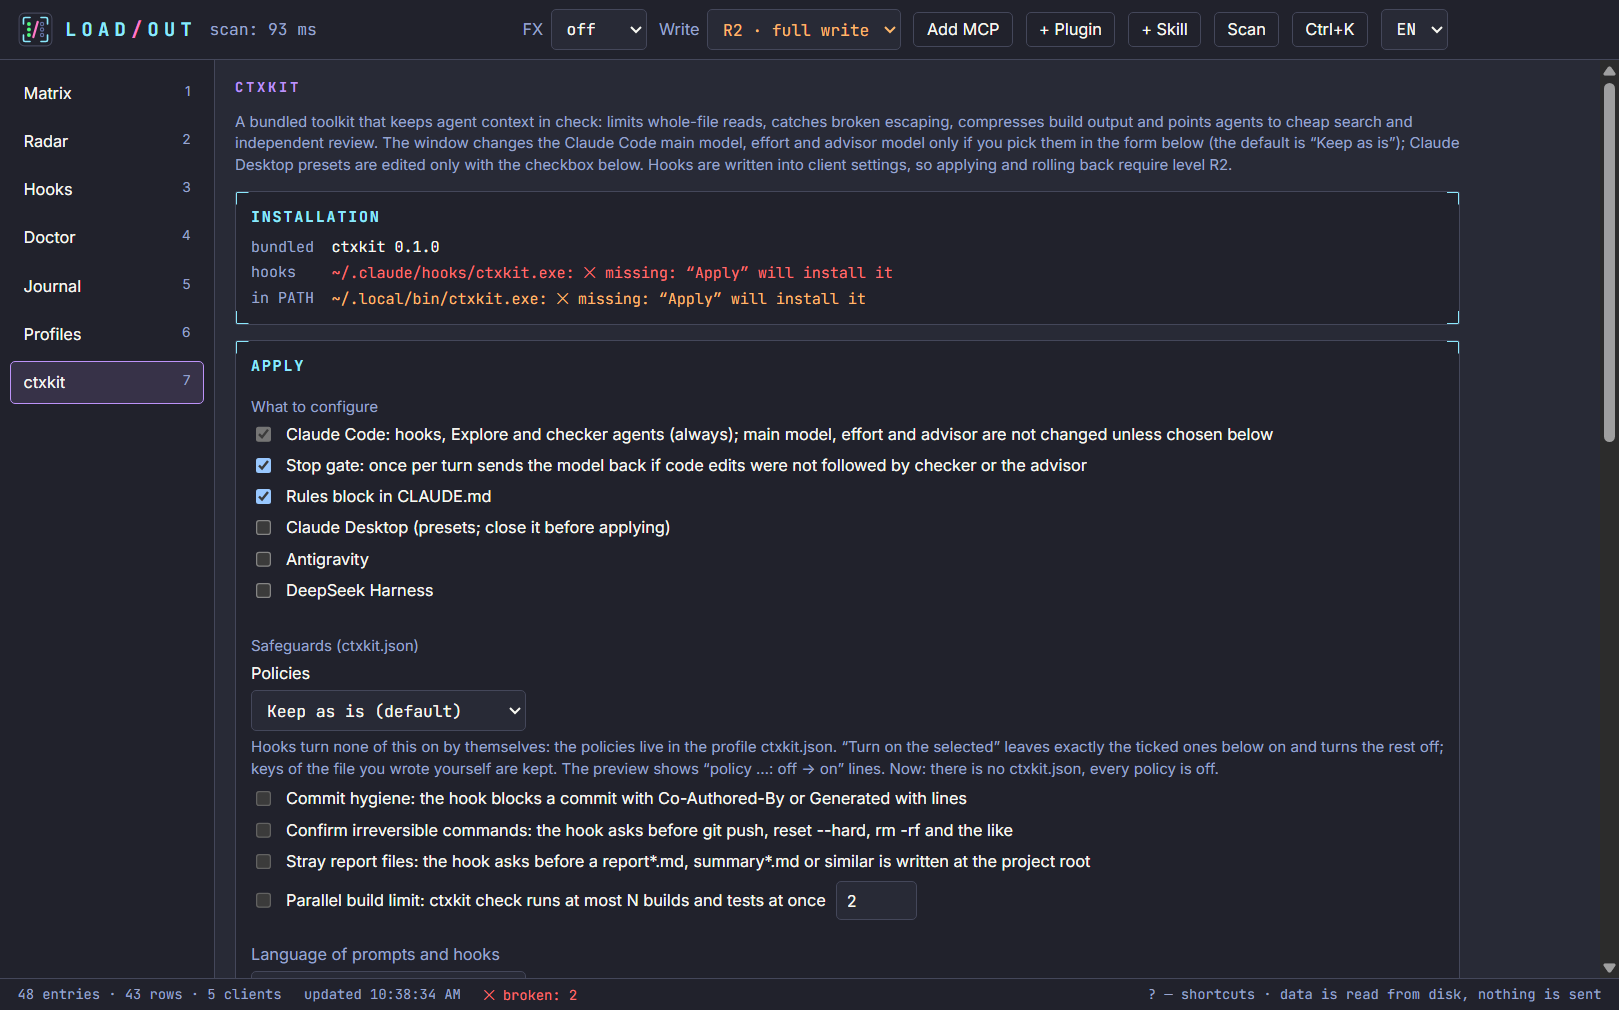
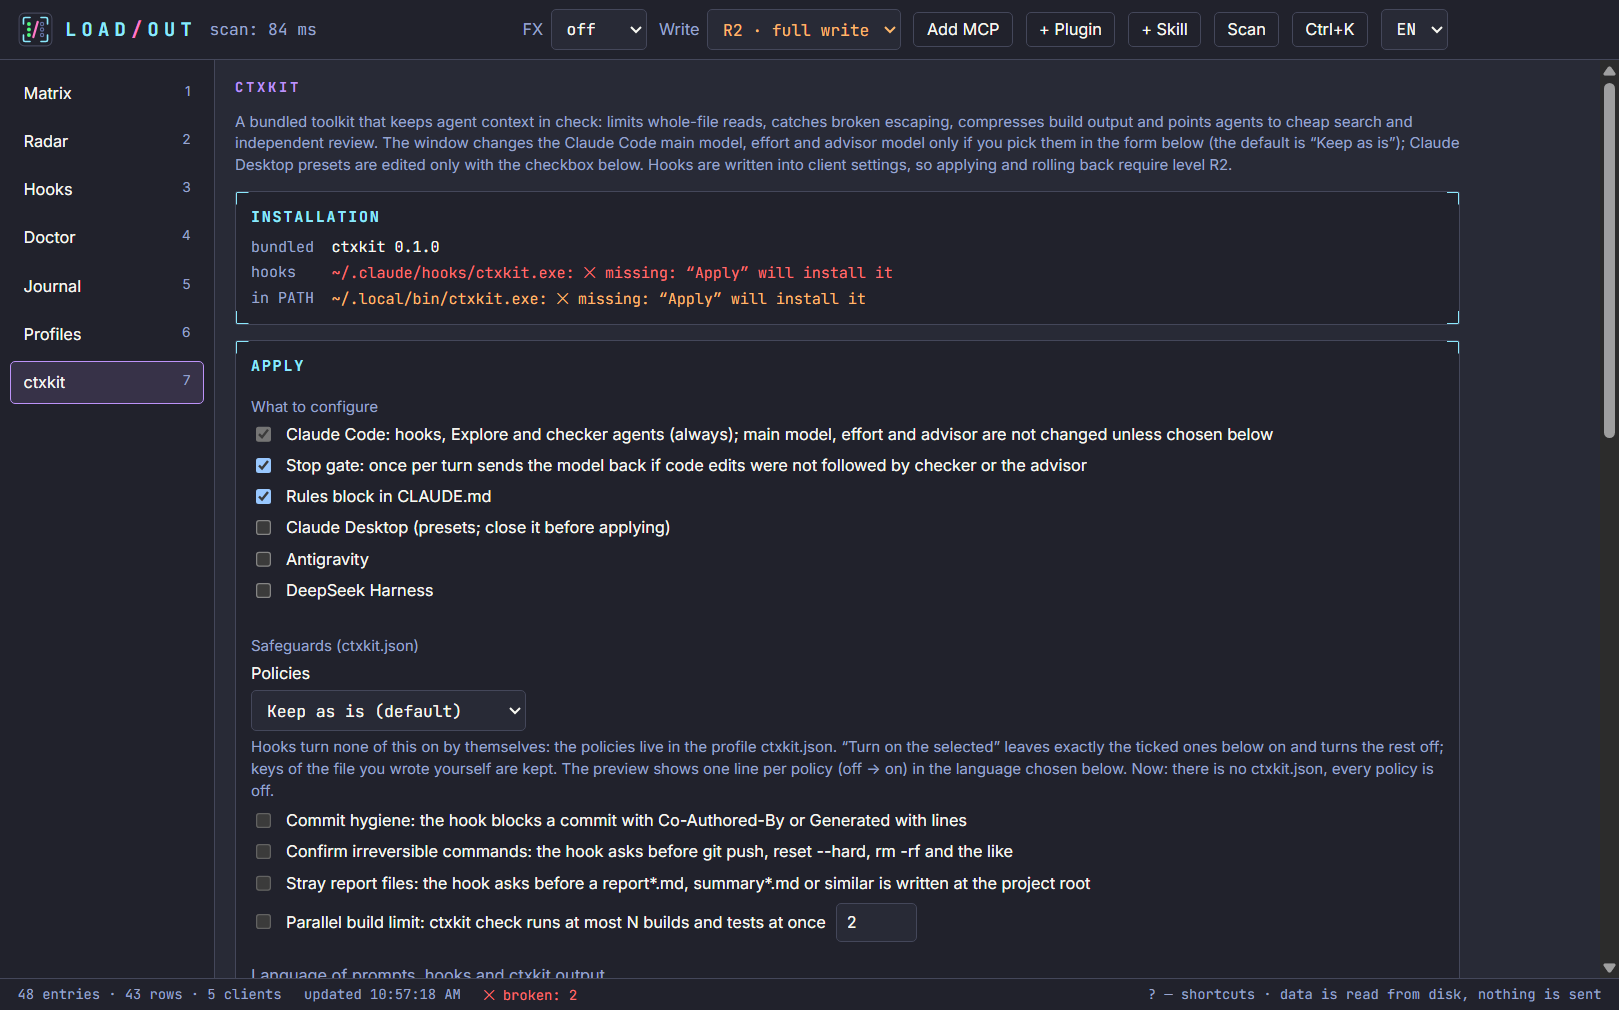
ctxkit/window: review fixes: the form caption says the language also sets the output; the last valid --lang is taken; "policies:" in Russian; explanation for the build limit

Changed region(s): [[0.1544, 0.7366, 0.8956, 1.0]]

diff --git a/app/src/renderer/views/Ctxkit.tsx b/app/src/renderer/views/Ctxkit.tsx
@@ -210,8 +210,8 @@ export function Ctxkit({ level, onNotice }: Props) {
               </select>
               <span id="ctx-policy-hint" className="mute small">
                 {t(
-                  'Хуки сами ничего из этого не включают: политики живут в ctxkit.json профиля. «Включить выбранные» оставляет включёнными ровно отмеченные ниже, остальные выключает; ключи файла, написанные вами, сохраняются. Предпросмотр покажет строки «политика …: выкл -> вкл».',
-                  'Hooks turn none of this on by themselves: the policies live in the profile ctxkit.json. “Turn on the selected” leaves exactly the ticked ones below on and turns the rest off; keys of the file you wrote yourself are kept. The preview shows “policy …: off -> on” lines.',
+                  'Хуки сами ничего из этого не включают: политики живут в ctxkit.json профиля. «Включить выбранные» оставляет включёнными ровно отмеченные ниже, остальные выключает; ключи файла, написанные вами, сохраняются. Предпросмотр покажет по строке на каждую политику (выкл -> вкл) на языке, выбранном ниже.',
+                  'Hooks turn none of this on by themselves: the policies live in the profile ctxkit.json. “Turn on the selected” leaves exactly the ticked ones below on and turns the rest off; keys of the file you wrote yourself are kept. The preview shows one line per policy (off -> on) in the language chosen below.',
                 )}
                 {(() => {
                   const now = doctor.status === 'ready' ? policiesNow(doctor.data) : null
@@ -241,7 +241,7 @@ export function Ctxkit({ level, onNotice }: Props) {
             </div>
           </fieldset>
           <div className="field">
-            <label htmlFor="ctx-lang">{t('Язык подсказок и хуков', 'Language of prompts and hooks')}</label>
+            <label htmlFor="ctx-lang">{t('Язык подсказок, хуков и вывода ctxkit', 'Language of prompts, hooks and ctxkit output')}</label>
             <select id="ctx-lang" value={opts.lang} onChange={(e) => change({ lang: e.target.value as SetupOptions['lang'] })}>
               <option value="ru">{t('русский', 'Russian')}</option>
               <option value="en">{t('английский', 'English')}</option>

diff --git a/app/src/shared/model.ts b/app/src/shared/model.ts
@@ -233,7 +233,7 @@ export interface SetupOptions {
   buildSlotsN: number
 }
 
-/** Верхняя граница лимита сборок (то же число, что `MAX_SLOTS` в ctxkit). */
+/** Верхняя граница лимита сборок в окне. ctxkit сам принимает до 64 (`MAX_SLOTS`): окно ограничивает себя, и уже записанное в ctxkit.json значение выше 8 оно только понижает. */
 export const MAX_BUILD_SLOTS = 8
 
 /** Что окно просит убрать вместе с настройками Claude Code: интеграции, которые `setup` поставил по галочкам. */

diff --git a/crates/ctxkit/src/setup/policies.rs b/crates/ctxkit/src/setup/policies.rs
@@ -52,7 +52,11 @@ pub(super) fn run(
         println!(
             "{}",
             kept_line(
-                "policies",
+                if is_ru() {
+                    "политики"
+                } else {
+                    "policies"
+                },
                 Some(&cfg.describe()),
                 "--policy commit-hygiene,confirm-irreversible,stray-files,build-slots=2"
             )
@@ -117,7 +121,7 @@ pub(super) fn run(
     if !existed && after == Config::default() {
         say!(
             "  policies: none, so no ctxkit.json is created",
-            "  policies: нет, поэтому ctxkit.json не создаётся"
+            "  политики: нет, поэтому ctxkit.json не создаётся"
         );
         return Ok(after);
     }

diff --git a/crates/ctxkit/src/setup.rs b/crates/ctxkit/src/setup.rs
@@ -93,11 +93,11 @@ impl Default for SetupOpts {
 pub fn run_setup(args: &[String]) -> i32 {
     let mut opts = SetupOpts::default();
     // The language first, so that an error in an option read before `--lang` is already in it (no env fallback: the default is English).
-    if let Some(l) = args
-        .iter()
-        .position(|a| a == "--lang")
-        .and_then(|p| args.get(p + 1))
-        .and_then(|v| parse_lang(v))
+    // The last valid one wins, as in the option loop below.
+    if let Some(l) = (0..args.len())
+        .rev()
+        .filter(|&p| args[p] == "--lang")
+        .find_map(|p| args.get(p + 1).and_then(|v| parse_lang(v)))
     {
         set_lang(l);
     }

diff --git a/crates/ctxkit/README.ru.md b/crates/ctxkit/README.ru.md
@@ -84,7 +84,7 @@ cd Loadout/crates/ctxkit
 
 ## Флаги `setup`
 
-`setup` сам не меняет твой выбор моделей: `model`, `advisorModel` и effort пишутся, только когда передан флаг, иначе остаются как есть (отсутствующий ключ остаётся отсутствующим), а в выводе стоит строка вида `model: opus (kept; pass --main-model sonnet to set)`. Для схемы, под которую настроен ctxkit (советник `fable` и основная `claude-sonnet-5-5`), запусти `ctxkit setup --main-model sonnet --advisor fable --effort high`. Окно Loadout передаёт `--advisor`, только если советник выбран в форме (по умолчанию «не менять»), и никогда не передаёт `--main-model` и `--effort`.
+`setup` сам не меняет твой выбор моделей: `model`, `advisorModel` и effort пишутся, только когда передан флаг, иначе остаются как есть (отсутствующий ключ остаётся отсутствующим), а в выводе стоит строка вида `model: opus (kept; pass --main-model sonnet to set)` (с `--lang ru`: `model: opus (оставлено; чтобы задать, передайте --main-model sonnet)`). Для схемы, под которую настроен ctxkit (советник `fable` и основная `claude-sonnet-5-5`), запусти `ctxkit setup --main-model sonnet --advisor fable --effort high`. Окно Loadout передаёт `--advisor`, только если советник выбран в форме (по умолчанию «не менять»), и никогда не передаёт `--main-model` и `--effort`.
 
 | Флаг | Назначение |
 |---|---|
